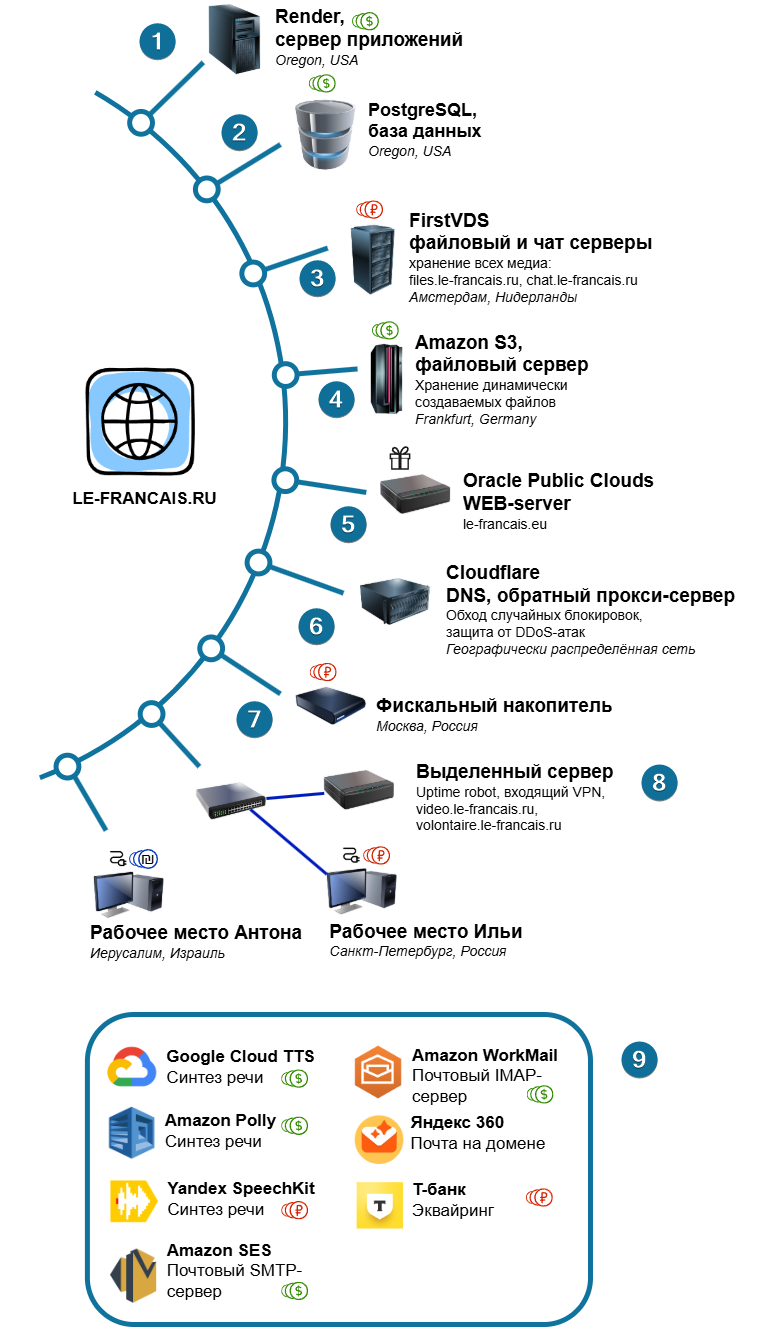
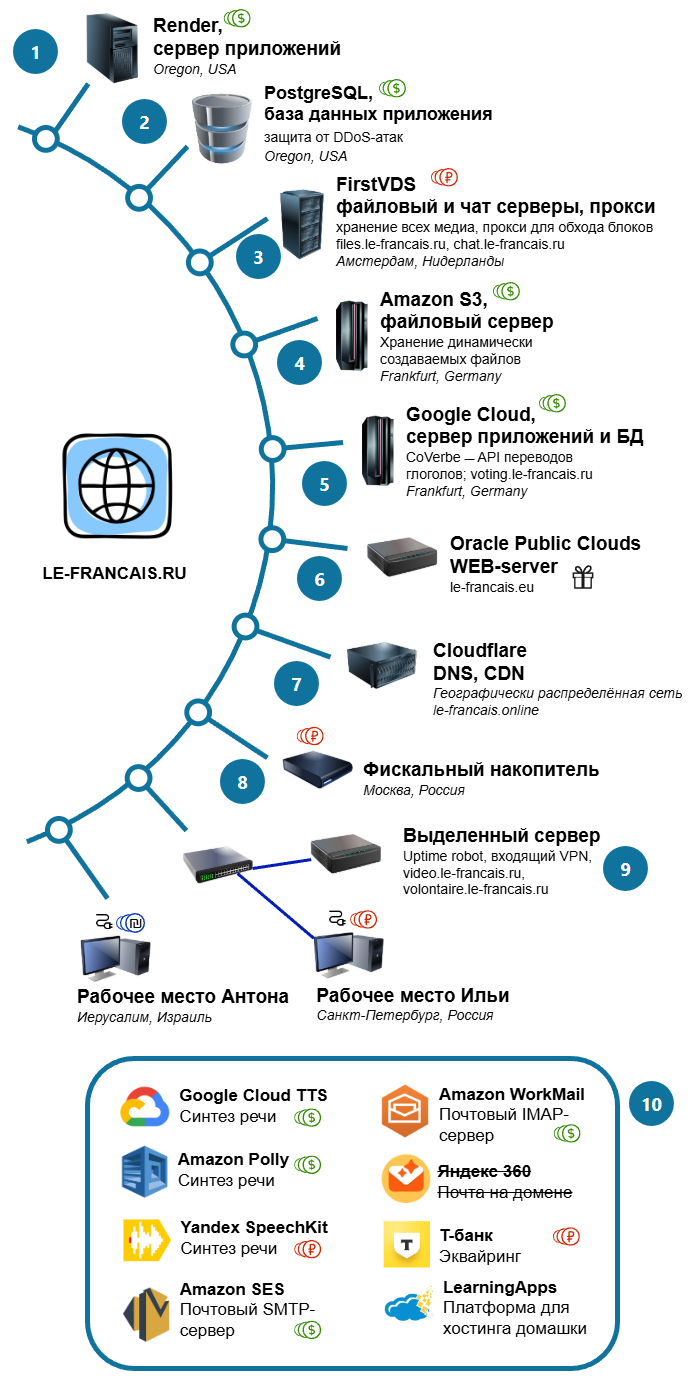
updated server map images and references in templates

Changed region(s): [[0.0, 0.0, 0.9683, 1.0], [0.0605, 0.2772, 0.2723, 0.4313]]

diff --git a/donations/templates/donations/base.html b/donations/templates/donations/base.html
@@ -69,9 +69,9 @@
                 </div>
                 <div class="modal-body">
                     <img class="d-none d-sm-inline"
-                         src="{% static 'images/serversMap2.png' %}"
+                         src="{% static 'images/serversMap3_wide.png' %}"
                          alt=""> <img class="d-sm-none"
-                                      src="{% static 'images/serversMapMobile.png' %}"
+                                      src="{% static 'images/serversMap3_tall.png' %}"
                                       alt="">
                 </div>
             </div>
@@ -85,7 +85,7 @@
 
 {% block extra_js %}
     <script>
-    const SERVERS_MAP_LINK = "{% static "images/serversMap2.png" %}";
+    const SERVERS_MAP_LINK = "{% static "images/serversMap3_wide.png" %}";
     </script>
     <script type="text/javascript"
             src="{% static 'donations/script.js' %}"></script>

diff --git a/home/templates/payments/tinkoff_payments_tickets.html b/home/templates/payments/tinkoff_payments_tickets.html
@@ -210,9 +210,9 @@
                         </button>
                     </div>
                     <div class="modal-body">
-                        <img class="d-none d-sm-inline" src="{% static 'images/serversMap2.png' %}"
+                        <img class="d-none d-sm-inline" src="{% static 'images/serversMap3_wide.png' %}"
                              alt="">
-                        <img class="d-sm-none" src="{% static 'images/serversMapMobile.png' %}"
+                        <img class="d-sm-none" src="{% static 'images/serversMap3_tall.png' %}"
                              alt="">
                     </div>
                 </div>

diff --git a/home/templates/modals/servers_map_image_modal.html b/home/templates/modals/servers_map_image_modal.html
@@ -14,9 +14,9 @@
             </div>
             <div class="modal-body">
                 <img class="d-none d-sm-inline"
-                     src="{% static 'images/serversMap2.png' %}"
+                     src="{% static 'images/serversMap3_wide.png' %}"
                      alt=""> <img class="d-sm-none"
-                                  src="{% static 'images/serversMapMobile.png' %}"
+                                  src="{% static 'images/serversMap3_tall.png' %}"
                                   alt="">
             </div>
         </div>
